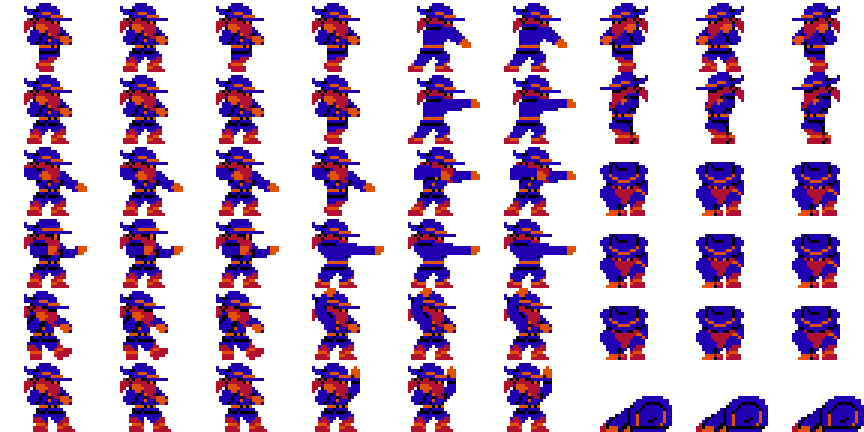
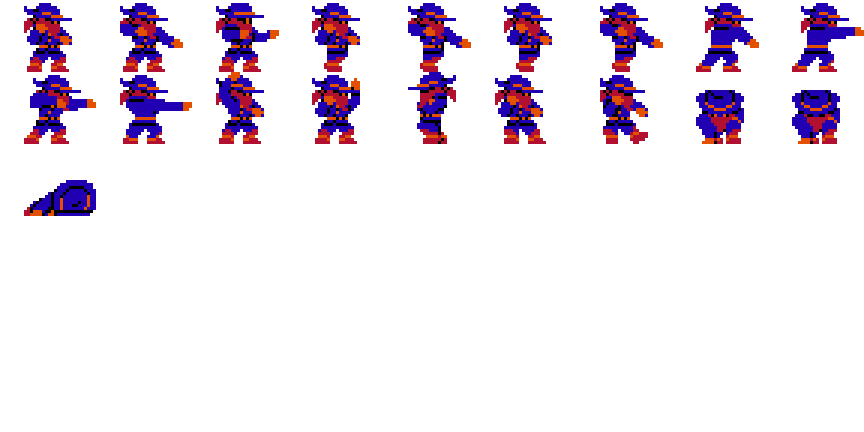
piecemeal actor battle animations

diff --git a/js/plugins/E9D_RetroFantasy.js b/js/plugins/E9D_RetroFantasy.js
@@ -1320,7 +1320,7 @@
 			if(stance === "spear") { return "spear"; }
 			break;
 		case "thrust":
-			if(stance === "spear") { return "spearThrust"; }
+			if(stance === "spear") { return "thrustSpear"; }
 			break;
 		case "pommel":
 		case "unarmed":
@@ -2803,25 +2803,46 @@
 	};
 	
 	// Sprite Actor
+	Sprite_Actor.POSES = {
+		wait: { index: 0 },
+		spear: { index: 1 },
+		longGun: { index: 2 },
+		walk: { index: 3 },
+		walkSpear: { index: 4 },
+		charge: { index: 5 },
+		chargeSpear: { index: 6 },
+		swing: { index: 7 },
+		thrust: { index: 8 },
+		thrustSpear: { index: 9 },
+		handGun: { index: 10 },
+		skill: { index: 11 },
+		item: { index: 12 },
+		victory: { index: 13 },
+		evade: { index: 14 },
+		damage: { index: 15 },
+		abnormal: { index: 16 },
+		sleep: { index: 17 },
+		dead: { index: 18 }
+	};
+	
 	Sprite_Actor.MOTIONS = {
-		walk: { index: 0, loop: true },
-		wait: { index: 1, loop: true },
-		spear: { index: 2, loop: true },
-		longGun: { index: 3, loop: true },
-		damage: { index: 4, loop: false },
-		evade: { index: 5, loop: false },
-		swing: { index: 6, loop: false },
-		thrust: { index: 7, loop: false },
-		spearThrust: { index: 8, loop: false },
-		handGun: { index: 9, loop: false },
-		skill: { index: 10, loop: false },
-		item: { index: 11, loop: false },
-		escape: { index: 12, loop: true },
-		victory: { index: 13, loop: true },
-		dying: { index: 14, loop: true },
-		abnormal: { index: 15, loop: true },
-		sleep: { index: 16, loop: true },
-		dead: { index: 17, loop: true }
+		wait: { poses: ["wait", "wait", "wait"], loop: true },
+		spear: { poses: ["spear", "spear", "spear"], loop: true },
+		longGun: { poses: ["longGun", "longGun", "longGun"], loop: true },
+		walk: { poses: ["walk", "wait", "walk"], loop: true },
+		walkSpear: { poses: ["walkSpear", "spear", "walkSpear"], loop: true },
+		swing: { poses: ["charge", "swing", "swing"], loop: false },
+		thrust: { poses: ["charge", "thrust", "thrust"], loop: false },
+		thrustSpear: { poses: ["chargeSpear", "thrustSpear", "thrustSpear"], loop: false },
+		handGun: { poses: ["handGun", "handGun", "handGun"], loop: false },
+		skill: { poses: ["skill", "skill", "skill"], loop: false },
+		item: { poses: ["item", "item", "item"], loop: false },
+		victory: { poses: ["victory", "victory", "victory"], loop: true },
+		evade: { poses: ["evade", "evade", "evade"], loop: false },
+		damage: { poses: ["damage", "damage", "damage"], loop: false },
+		abnormal: { poses: ["abnormal", "abnormal", "abnormal"], loop: true },
+		sleep: { poses: ["sleep", "sleep", "sleep"], loop: true },
+		dead: { poses: ["dead", "dead", "dead"], loop: true }
 	};
 	
 	Sprite_Actor.prototype.initMembers = function() {
@@ -2896,10 +2917,6 @@
 			this.stepForward();
 		} else if (!this._actor.isActing() && this.inActingPosition()) {
 			this.stepBack();
-		} else if (this._actor.motionType() === "damage") {
-			this.stepBackDamage();
-		} else if (this._actor.motionType() === "evade") {
-			this.stepBackEvade();
 		}
 	};
 	
@@ -2977,7 +2994,7 @@
 	};
 	
 	Sprite_Actor.prototype.motionTypeIsMelee = function() {
-		return this._motionType === "swing" || this._motionType === "thrust" || this._motionType === "spearThrust" || this._motionType === "pommel" || this._motionType === "unarmed";
+		return this._motionType === "swing" || this._motionType === "thrust" || this._motionType === "thrustSpear" || this._motionType === "pommel" || this._motionType === "unarmed";
 	};
 	
 	Sprite_Actor.prototype.startEntryMotion = function() {
@@ -3002,14 +3019,6 @@
 	Sprite_Actor.prototype.retreat = function() {
 		const spriteW = $gameMap.tileWidth()/2;
 		this.startMove(-spriteW*5, 0, spriteW);
-	};
-	
-	Sprite_Actor.prototype.stepBackDamage = function() {
-		this.startMove(-1, 0, 0);
-	};
-	
-	Sprite_Actor.prototype.stepBackEvade = function() {
-		this.startMove(-2, 0, 0);
 	};
 	
 	Sprite_Actor.prototype.damageOffsetX = function() {
@@ -3052,6 +3061,7 @@
 	
 	Sprite_Actor.prototype.startMotion = function(motionType) {
 		motionType = motionType === "wait" && this._actor.weaponStance() === "spear" ? "spear" : motionType;
+		motionType = motionType === "walk" && this._actor.weaponStance() === "spear" ? "walkSpear" : motionType;
 		const newMotion = Sprite_Actor.MOTIONS[motionType];
 		if (this._motion !== newMotion) {
 			if(this._motionType === "damage" || this._motionType === "evade") {
@@ -3063,6 +3073,7 @@
 			this._pattern = 0;
 			if(
 				motionType === "walk" ||
+				motionType === "walkSpear" ||
 				motionType === "wait" ||
 				motionType === "spear" ||
 				motionType === "damage" ||
@@ -3076,6 +3087,7 @@
 			}
 			if(
 				motionType === "walk" ||
+				motionType === "walkSpear" ||
 				motionType === "wait" ||
 				motionType === "damage" ||
 				motionType === "evade" ||
@@ -3083,7 +3095,7 @@
 				motionType === "item" ||
 				motionType === "swing" ||
 				motionType === "thrust" ||
-				motionType === "spearThrust" ||
+				motionType === "thrustSpear" ||
 				motionType === "pommel" ||
 				motionType === "unarmed" ||
 				motionType === "throw"
@@ -3137,6 +3149,22 @@
 		this._shieldSprite.y = 0;
 		this._shieldOverlaySprite.x = 0;
 		this._shieldOverlaySprite.y = 0;
+	};
+	
+	Sprite_Actor.prototype.updateFrame = function() {
+		Sprite_Battler.prototype.updateFrame.call(this);
+		const bitmap = this._mainSprite.bitmap;
+		if (bitmap) {
+			const motion = this._motion ? this._motion : (this._actor.weaponStance() === "spear" ? Sprite_Actor.MOTIONS.spear : Sprite_Actor.MOTIONS.wait);
+			const pattern = this._pattern < 3 ? this._pattern : 1;
+			const poseIndex = Sprite_Actor.POSES[motion.poses[pattern]].index;
+			const cw = bitmap.width / 9;
+			const ch = bitmap.height / 6;
+			const cx = poseIndex % 9;
+			const cy = Math.floor(poseIndex / 9);
+			this._mainSprite.setFrame(cx * cw, cy * ch, cw, ch);
+			this.setFrame(0, 0, cw, ch);
+		}
 	};
 	
 	Sprite_Actor.prototype.updateMotion = function() {
@@ -3668,7 +3696,7 @@
 	Sprite_Weapon.prototype.motionTypeIsAttack = function() {
 		return 
 			this._motionType === "thrust" ||
-			this._motionType === "spearThrust" ||
+			this._motionType === "thrustSpear" ||
 			this._motionType === "swing" ||
 			this._motionType === "pommel" ||
 			this._motionType === "throw" ||
@@ -3704,15 +3732,19 @@
 			let displayPattern = this._pattern;
 			if (this._isShield) {
 				displayPattern = 0;
-				this.x = -8;
 				if(this._motionType === "item") {
+					this.x = -8;
 					this.y = 7;
+				} else if(this._motionType === "evade") {
+					this.x = -10;
+					this.y = 16;
 				} else {
+					this.x = -8;
 					this.y = 16;
 				}
 			} else {
 				switch(this._motionType) {
-					case "spearThrust":
+					case "thrustSpear":
 						displayPattern = displayPattern === 0 ? 2 : 1;
 						break;
 					case "thrust":
@@ -3724,6 +3756,7 @@
 						if(displayPattern > 0) { displayPattern = 2; }
 						break;
 					case "spear":
+					case "walkSpear":
 						displayPattern = 2;
 						break;
 					case "missile":
@@ -3741,11 +3774,15 @@
 					this.x = 4;
 					this.y = 8;
 					this.scale.x = -1;
+				} else if (this._motionType === "evade") {
+					this.x = -10;
+					this.y = 16;
+					this.scale.x = 1;
 				} else if (this._motionType === "pommel" && this._pattern > 0) {
 					this.x = 8;
 					this.y = 16;
 					this.scale.x = 1;
-				} else if (this._motionType === "spear" || this._motionType === "spearThrust" && this._pattern === 0) {
+				} else if (this._motionType === "spear" || this._motionType === "walkSpear" || this._motionType === "thrustSpear" && this._pattern === 0) {
 					this.x = -16;
 					this.y = 12;
 					this.scale.x = 1;
